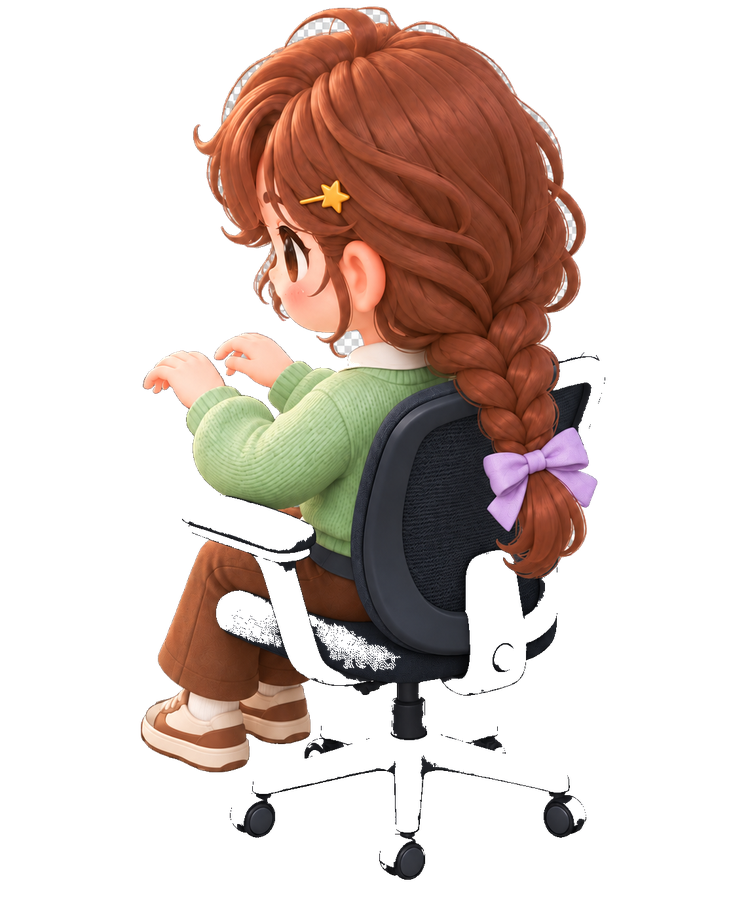
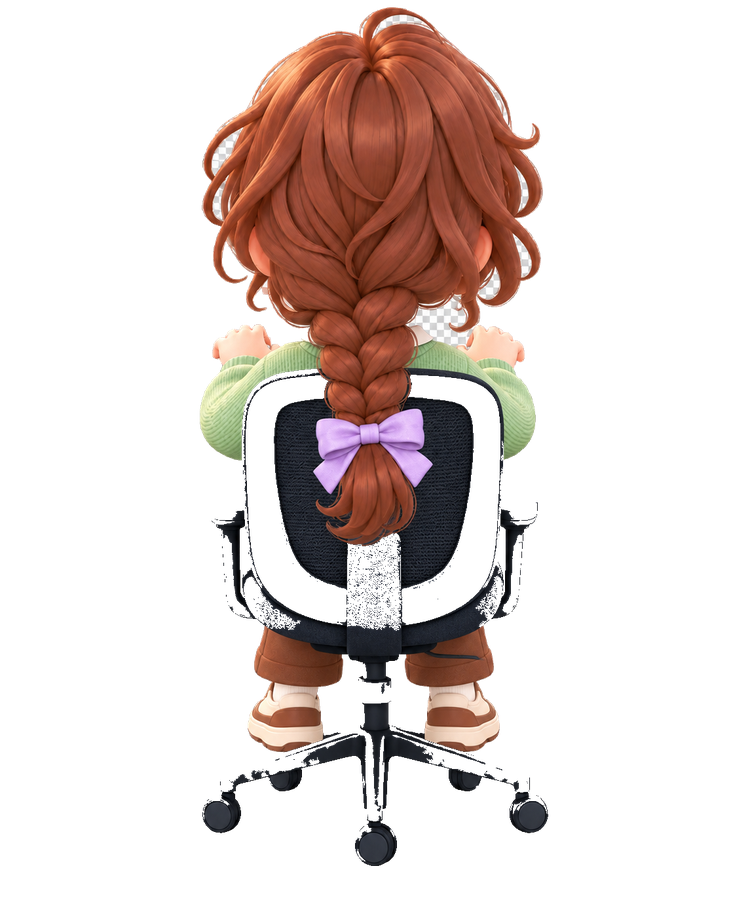
fix(console): 실앱에서 드러난 좌석 3건 — 각도·허공 착석·콘솔 겹침 (#627)
* fix(console): 콘솔이 그려 둔 의자 위에 의자째 앉히던 것 — 특화 콘솔은 정면 좌석 그림을 쓴다

#622 가 좌석 그림을 뒷모습 전신으로 바꾸면서 특화 콘솔도 그 그림을 받게 됐고, codex 리뷰를
따라 몸을 콘솔 앞판보다 앞으로 옮겼다. **둘이 겹쳐 더 나빠졌다** — 부서 특화 콘솔 그림은
자기 의자(초록 쿠션)를 이미 그려 두고 있어서, 의자까지 그려진 전신을 그 앞에 세우면 의자가
두 개로 보이고 사람이 작업면 위에 걸터앉은 그림이 된다(사용자 보고: "공공 에셋과 겹쳐서
이상하게 보임" — 실제 앱 화면).

앞으로 내는 것도 뒤로 넣는 것도 답이 아니다. 앞이면 작업면에 걸터앉고, 뒤면 전신의 다리가
앞판에 잘린다. **정면·상반신 원화(`sit`)를 쓰면 두 문제가 함께 사라진다** — 가려질 하반신이
애초에 없고, 콘솔이 그려 둔 의자가 그 사람의 의자로 읽힌다. codex 가 대안으로 제시한
"특화 콘솔 전용 포즈 분리"가 실제로 옳았다(그때 나는 원화를 한 벌 더 받아야 한다고 답했는데,
기존 `sit` 원화로 되는 일이었다).

- `officeFeatureConsoleSeatPose`(= `"sit"`)를 추가하고 특화 콘솔 배치가 그것을 넘긴다.
  일반 책상(`cozyDeskSeatPose`)과 갈라 두는 것이 이 상수의 존재 이유다.
- `CharacterNode.sit(pose:)` 로 좌석 종류를 받는다. `seatPose` 로 기억해 두어야 옷·부서가
  바뀌어 그림을 다시 구울 때도 같은 좌석 그림을 유지한다(`refreshLook`·`apply(department:)`).
  `stand()` 에서 기본값으로 되돌린다 — 안 그러면 콘솔에서 일어난 사람이 자기 책상에서도
  콘솔용 그림을 쓴다.
- 특화 콘솔 깊이를 `depth(of: tile) - 1.00` 으로 되돌렸다(앞판이 하반신을 가려 주는 구조).

검증: 테스트 20815건 통과, `--asset-check`·`--color-check`·`--prewarm-check` 종료 코드 0,
콘텐츠·총무 방을 2000×1250 · 14시로 굽고 before/after 대조.

미검증: 콘솔에 앉았다 일어나 자기 책상으로 돌아가는 전환은 렌더 정적 화면으로 볼 수 없어
`seatPose` 되돌림을 눈으로 확인하지 못했다.

* fix(console): 좌석 뒷모습이 책상과 다른 각도였던 것 — walk-up 과 같은 시점으로 다시 받는다

#622 로 들어간 뒷모습 원화는 인물을 거의 옆에서 본 각도였다. 배경 책상은 3/4 부감이라
두 각도가 어긋나 사람이 책상을 향해 앉은 것으로 보이지 않고 책상 옆면을 향해 앉은 것처럼
보였다(사용자 보고: "책상과 의자의 각도가 맞지 않음" — 실제 앱 화면).

**내 판단 착오였다.** 원화 단계에서 각도가 요청(20~30도)보다 크게 온 것을 알고도 1200×800
렌더에서 "자연스럽다" 고 판단해 수용했다. 큰 창에서는 그대로 드러난다 — 좌석 그림은 실사용
[…]

diff --git a/clients/idaeri-console/Sources/IdaeriConsole/CharacterNode.swift b/clients/idaeri-console/Sources/IdaeriConsole/CharacterNode.swift
@@ -25,6 +25,9 @@ final class CharacterNode: SKNode {
     private(set) var facing: Facing = .down
     /// 자리에 앉아 있는가. 앉은 그림과 선 그림을 가르는 유일한 값이다(`currentPose`).
     var isSeated = false
+    /// 지금 앉아 있는 자리가 어느 좌석 종류인지. `sit(pose:)` 가 정하고 `currentPose` 가 읽는다.
+    /// 옷·부서가 바뀌어 그림을 다시 구울 때도 같은 좌석 그림을 유지하려면 기억해 두어야 한다.
+    private var seatPose = cozyDeskSeatPose
     /// 걷는 중인가 — 새 지시가 오면 기존 걸음을 끊어야 해서 필요하다.
     var isWalking = false
     /// 몇 번째 걸음인가 — 몸이 좌우로 번갈아 기울도록 한 칸마다 늘린다.
@@ -405,7 +408,7 @@ final class CharacterNode: SKNode {
     /// 알아서 정지 그림으로 접고(`cozyPoseCandidates`), 그때는 몸 기울기만 남는다.
     private func currentPose() -> String {
         if isSeated {
-            return cozyDeskSeatPose
+            return seatPose
         }
         guard isWalking else {
             return cozyIdlePose
@@ -502,7 +505,7 @@ final class CharacterNode: SKNode {
             shirtShift = look.shirtShift
         }
         if isSeated {
-            setTexture(cozyDeskSeatPose)
+            setTexture(seatPose)
         } else {
             apply(facing: facing)
         }
@@ -521,9 +524,24 @@ final class CharacterNode: SKNode {
         cozyAppearance = cozyAgentAppearance(agentType: name ?? nameText, department: newDepartment)
         // 새 색으로 다시 굽는다. 걷는 중이면 다음 걸음 프레임이 자연히 새 색으로 그려진다.
         if isSeated {
-            setTexture(cozyDeskSeatPose)
+            setTexture(seatPose)
         } else {
             apply(facing: facing)
+        }
+    }
+
+    /// 이 자리에서 쓸 좌석 그림을 미리 정한다 — **자리에 놓는 쪽이 부른다.**
+    ///
+    /// `sit()` 이 인자로 받게 두면 앉히는 호출부마다 자리 종류를 다시 판정해야 하는데, 그
+    /// 호출부가 일곱 곳이고 그중 하나는 자리 종류로 분기까지 한다. 한 곳만 빠뜨려도 다음
+    /// 스냅샷에서 그림이 기본값으로 덮인다(codex 리뷰 지적: 첫 배치는 맞는데 이어지는 `sync`
+    /// 가 되돌려 콘솔 겹침이 재발). **배치 함수가 정하면 앉히는 쪽은 아무것도 몰라도 된다.**
+    func prepareSeat(pose: String) {
+        seatPose = pose
+        // 이미 앉아 있는 사람의 자리 종류가 바뀌었으면 그림도 즉시 따라가야 한다 — 콘솔에
+        // 앉아 있다가 자기 책상으로 재배치되는 경로가 그렇다.
+        if isSeated {
+            setTexture(seatPose)
         }
     }
 
@@ -533,7 +551,7 @@ final class CharacterNode: SKNode {
         // 숨는데, 그림자는 좌석 칸 바닥에 그대로 남아 책상 **아래**에 동그랗게 비친다 —
         // 사람은 책상 뒤에 있는데 그림자만 책상 앞 바닥에 떠 있는 그림이 된다(사용자 보고).
         contactShadow.isHidden = true
-        setTexture(cozyDeskSeatPose)
+        setTexture(seatPose)
     }
 
     func stand() {
@@ -543,6 +561,9 @@ final class CharacterNode: SKNode {
         }
         activeWorkPose = nil
         isSeated = false
+        // 다음에 앉을 자리는 그때 `prepareSeat(pose:)` 가 정한다. 여기서 되돌려 두지 않으면
+        // 콘솔에서 일어난 사람이 배치 함수를 안 거치는 경로로 다시 앉을 때 콘솔용 그림을 쓴다.
+        seatPose = cozyDeskSeatPose
         apply(facing: facing)
     }
 
@@ -596,7 +617,7 @@ final class CharacterNode: SKNode {
             ])
             tend.timingMode = .easeInEaseOut
             sprite.run(.repeatForever(tend), withKey: "interaction")
-        case .sitting, .drinking, .carryingPapers, .writing, .stowing:
+        case .sitting, .sittingAtTable, .drinking, .carryingPapers, .writing, .stowing:
             break
         }
     }
@@ -760,10 +781,13 @@ final class CharacterNode: SKNode {
         }
         clearMotion()
         if isSeated {
-            // 타이핑 그림이 없는 사람은 포즈 계약이 앉은 그림으로 내려준다 — 여기서 미리
-            // 존재를 따질 필요가 없다(따지던 시절에는 두 곳의 판정이 갈릴 여지가 있었다).
+            // **`"typing"` 을 요청하지 않는다.** 포즈 계약의 `typing` 후보는 선두가 책상 좌석
+            // 그림이라(자세가 이미 타이핑이다) 요청해도 결국 그것이 뽑히는데, 그 값은 일반
+            // 책상용이라 특화 콘솔에 앉은 사람의 그림을 덮는다(codex 리뷰 지적). 자리 종류를
+            // 아는 것은 `seatPose` 하나이므로 그것을 그대로 쓴다. `activeWorkPose` 는 몸짓
+            // 정리(`clearMotion`)가 자세 복원을 판단하는 표식으로 남긴다.
             activeWorkPose = "typing"
-            setTexture("typing")
+            setTexture(seatPose)
         }
         if shouldReduceMotion() {
             return

diff --git a/clients/idaeri-console/Sources/ConsoleCore/OfficeChoreography.swift b/clients/idaeri-console/Sources/ConsoleCore/OfficeChoreography.swift
@@ -96,6 +96,18 @@ public let cozyIdlePose = "idle"
 /// 셋 중 하나만 바꾸면 사람이 상판 위로 떠오르거나 다리가 중간에서 잘린다.
 public let cozyDeskSeatPose = "sit-back"
 
+/// 부서 특화 콘솔에서 쓰는 좌석 포즈 — **정면·상반신**(`sit`).
+///
+/// 뒷모습 원화를 쓰지 않는 이유는 **콘솔 그림이 자기 의자를 이미 그려 놓았기 때문**이다.
+/// 의자까지 그려진 전신을 그 위에 앉히면 의자가 두 개로 보이고, 콘솔 앞판보다 앞에 두면
+/// 사람이 작업면 위에 걸터앉은 그림이 된다(사용자 보고: "공공 에셋과 겹쳐서 이상하게
+/// 보임" — 실제 앱 화면으로 확인). 반대로 뒤에 두면 전신의 다리가 중간에서 잘린다.
+///
+/// 정면 원화는 허리 아래가 없어 두 문제가 함께 사라진다 — 콘솔 앞판이 가려 줄 하반신이
+/// 애초에 없고, 콘솔이 그려 둔 의자가 그 사람의 의자로 읽힌다. 일반 책상(`cozyDeskSeatPose`)
+/// 과 갈라 두는 것이 이 상수의 존재 이유다.
+public let officeFeatureConsoleSeatPose = "sit"
+
 /// 요청 이름을 에셋 어휘로 접는다.
 ///
 /// **방향 이름과 걸음 프레임이 전부 `idle` 로 접히는 것이 이 함수의 요점이다.** `down`·`up`·
@@ -118,6 +130,10 @@ public func normalizedCozyPose(_ requested: String) -> String {
         return "sit-back"
     case "sitting":
         return "sitting"
+    // 의자를 들고 오는 테이블 앞 착석. `OfficeInteractionPose.sittingAtTable` 의 rawValue 가
+    // 그대로 들어오므로 붙여 쓴 형태도 함께 받는다.
+    case "sit-table", "sittable", "sittingattable":
+        return "sit-table"
     case "typing":
         return "typing"
     case "reading":
@@ -173,6 +189,8 @@ public func cozyPosePosture(assetIndex: Int, pose: String) -> CozyPosePosture {
         return .seated
     case "sit-back":
         return .seated
+    case "sit-table":
+        return .seated
     case "typing":
         return assetIndex == 18 ? .standing : .seated
     case "sitting":
@@ -204,6 +222,10 @@ public func cozyPoseCandidates(_ normalized: String) -> [String] {
     // 소파에 놓으면 상반신만 뜨고, 이쪽을 책상에 놓으면 다리가 상판 아래로 샌다.
     case "sitting":
         return ["sitting"]
+    // 테이블용이 없으면 소파용으로 내려간다 — 자리는 맞고 의자만 사라져 공중에 앉은 것처럼
+    // 보이지만, 서 있는 기본 그림으로 떨어지는 것보다는 뜻이 가깝다.
+    case "sit-table":
+        return ["sit-table", "sitting"]
     // **앉은 그림을 먼저 본다.** `sit` 원화는 허리 아래가 없고 팔을 앞으로 뻗은 그림으로
     // 다시 그려졌다 — 책상 뒤에 놓으면 다리가 샐 자리가 없어 "책상을 관통한" 인상이
     // 사라진다(사용자 보고로 재제작). 그 자세가 이미 타이핑이라 `typing` 원화를 따로
@@ -265,7 +287,8 @@ public func resolveCozyPose(
     // `idle`(서 있는 전신)로 떨어진다 — 파일도 있고 계약에도 등록했는데 화면만 안 바뀌어
     // 원인이 늦게 드러난다(`sit-back` 을 넣을 때 실제로 그랬다).
     let wanted: CozyPosePosture = requiredPosture
-        ?? (["sit", "sit-back", "sitting", "typing"].contains(normalized) ? .seated : .standing)
+        ?? (["sit", "sit-back", "sit-table", "sitting", "typing"].contains(normalized)
+            ? .seated : .standing)
     for candidate in cozyPoseCandidates(normalized) {
         guard !cozyPoseDrawsOwnFurniture(assetIndex: assetIndex, pose: candidate) else {
             continue

diff --git a/clients/idaeri-console/Sources/ConsoleCoreTests/OfficeChoreographyTests.swift b/clients/idaeri-console/Sources/ConsoleCoreTests/OfficeChoreographyTests.swift
@@ -248,6 +248,48 @@ func runCozyPoseContractTests(_ t: TestRunner) {
         ).pose,
         cozyIdlePose, "가구 앞 앉기는 책상 뒷모습으로 대신하지 않는다")
 
+    // MARK: - 테이블 앞 착석(`sit-table`)
+
+    t.expectEqual(normalizedCozyPose("sit-table"), "sit-table", "테이블 착석은 별도 이름")
+    t.expectEqual(
+        resolveCozyPose(
+            requested: "sit-table", assetIndex: 3, hasAsset: cozyPoseAssetExists(3)
+        ),
+        ResolvedCozyPose(pose: "sit-table", posture: .seated),
+        "테이블 착석 요청은 앉은 자세의 전용 그림으로 풀린다")
+    // 전용 그림이 없으면 소파용으로 내려간다 — 의자가 사라져 공중에 앉은 것처럼 보이지만,
+    // 서 있는 기본 그림으로 떨어지는 것보다는 뜻이 가깝다.
+    t.expectEqual(
+        resolveCozyPose(
+            requested: "sit-table", assetIndex: 1, hasAsset: { $0 == "sitting" }
+        ),
+        ResolvedCozyPose(pose: "sitting", posture: .seated),
+        "테이블 그림이 없으면 소파용으로 대신한다")
+
+    // **씬이 쓰는 모든 상호작용 자세가 계약에 등록돼 있는지 — 전수.**
+    //
+    // 이것이 이 블록에서 가장 중요한 단언이다. 자세 이름은 `OfficeInteractionPose` 가 정하고
+    // (`rawValue` 가 그대로 요청으로 들어간다) 계약은 `normalizedCozyPose` 가 정하는데, 둘이
+    // 따로 적혀 있어 **새 자세를 한쪽에만 넣으면 요청이 조용히 `idle` 로 접힌다.** 파일도 있고
+    // 가구 매핑도 맞는데 화면만 안 바뀌어 원인이 늦게 드러난다(`sit-back`·`sit-table` 을 넣을 때
+    // 실제로 그랬다). 케이스를 하나 추가하면 여기서 바로 걸린다.
+    for pose in OfficeInteractionPose.allCases {
+        t.expect(
+            normalizedCozyPose(pose.rawValue) != cozyIdlePose,
+            "상호작용 자세 \(pose.rawValue) 가 계약에 등록돼 있어야 한다")
+    }
+    // 앉는 자세는 **앉은 것으로** 풀려야 한다. `resolveCozyPose` 안의 앉은-요청 목록에서
+    // 빠지면 원하는 자세가 `.standing` 으로 잡혀 앉은 후보가 전부 걸러진다.
+    for pose in OfficeInteractionPose.allCases
+    where normalizedCozyPose(pose.rawValue).hasPrefix("sit") {
+        t.expectEqual(
+            resolveCozyPose(
+                requested: pose.rawValue, assetIndex: 3, hasAsset: cozyPoseAssetExists(3)
+            ).posture,
+            .seated,
+            "앉는 자세 \(pose.rawValue) 는 앉은 그림으로 풀린다")
+    }
+
     // 앉은 요청은 **앉은 그림**으로만 내려간다. 서 있는 그림으로 내려가면 그 사람만 책상 위에
     // 올라선 것처럼 보인다. 10번은 `typing` 이 없는 캐릭터다.
     t.expectEqual(

diff --git a/clients/idaeri-console/Sources/IdaeriConsole/OfficeScene.swift b/clients/idaeri-console/Sources/IdaeriConsole/OfficeScene.swift
@@ -1496,6 +1496,10 @@ final class OfficeScene: SKScene {
     private func place(_ node: CharacterNode, at tile: TilePoint) {
         node.tile = tile
         node.place(at: floorPoint(tile), depth: depth(of: tile))
+        // 특화 콘솔·책상이 아닌 **임의 칸**이다. 이 자리에서 앉게 되면(호출부가 이어서
+        // `sit()` 을 부르는 경로가 있다) 일반 책상 그림이 기본이 된다 — 콘솔에서 옮겨온
+        // 사람이 콘솔용 그림을 들고 오지 않도록 여기서도 명시한다.
+        node.prepareSeat(pose: cozyDeskSeatPose)
         applyDepthScale(node, at: tile)
         refreshDoors()
     }
@@ -1539,6 +1543,7 @@ final class OfficeScene: SKScene {
             // 주면 몸(+1)이 앞판보다 앞에 서서 모니터와 상판을 가리고 전신이 온전히 보인다.
             depth: depth(of: assignment.desk)
         )
+        node.prepareSeat(pose: cozyDeskSeatPose)
         // 책상 칸 기준으로 크기를 맞춘다 — 사람이 그 책상에 붙어 앉으므로 좌석 칸이 아니라
         // 책상 칸의 깊이가 눈에 보이는 크기를 정한다.
         applyDepthScale(node, at: assignment.desk)
@@ -1592,8 +1597,12 @@ final class OfficeScene: SKScene {
             // 대신 사람이 콘솔의 부서 그림을 더 가린다. 일반 책상에서 모니터를 가리는 쪽을
             // 고른 것과 같은 판단이다(사용자: "모니터를 가려도 좋으니 정확하게 앉은 자세로").
             // 두 좌석 경로가 서로 반대 전제로 갈리면 다음에 고칠 사람이 한쪽만 보고 틀린다.
-            depth: depth(of: tile)
+            depth: depth(of: tile) - 1.00
         )
+        // **자리와 좌석 그림을 같은 곳에서 정한다.** 앉히는 호출부(`node.sit()`)는 일곱 곳이고
+        // 그중 하나는 자리 종류로 분기까지 하므로, 그쪽에 판정을 맡기면 한 곳만 빠뜨려도 다음
+        // 스냅샷이 기본 그림으로 덮는다(codex 리뷰 지적).
+        node.prepareSeat(pose: officeFeatureConsoleSeatPose)
         applyDepthScale(node, at: tile)
         refreshDoors()
     }

diff --git a/clients/idaeri-console/Sources/ConsoleCore/OfficeFloorPlan.swift b/clients/idaeri-console/Sources/ConsoleCore/OfficeFloorPlan.swift
@@ -917,8 +917,15 @@ public enum FurnitureKind: String, Codable, Sendable, CaseIterable {
     /// 머무름이 있는 가구만 자세를 가진다. 두 switch를 나란히 둬 새 종류 추가 시 함께 검토한다.
     public var interactionPose: OfficeInteractionPose? {
         switch self {
-        case .sofa2, .sofa3, .coffeeTable, .meetingTable:
+        // **앉을 면이 그려져 있는 가구와 상판만 있는 가구를 가른다.** 소파는 그림에 좌판이
+        // 있어 의자 없는 착석 그림(`sitting`)이 그대로 성립한다. 회의 테이블·응접 테이블은
+        // 상판만 있어(회의 테이블은 의자 여덟 개를 일부러 지운 재제작본이다) 같은 그림을 놓으면
+        // 앉을 것이 없는 자리에 앉은 사람이 되어 허공에 뜬다(사용자 보고: "공중에 앉아있음.
+        // 기구 시설을 정확하게 이용하지 못함"). 그쪽은 의자를 함께 들고 오는 그림을 쓴다.
+        case .sofa2, .sofa3:
             return .sitting
+        case .coffeeTable, .meetingTable:
+            return .sittingAtTable
         case .coffeeMachine, .waterCooler, .vendingMachine, .refrigerator, .sinkCounter:
             return .drinking
         case .printer, .filingCabinet:

diff --git a/clients/idaeri-console/Sources/ConsoleCore/OfficeIdle.swift b/clients/idaeri-console/Sources/ConsoleCore/OfficeIdle.swift
@@ -19,6 +19,13 @@ public let officeLunchHour: Int = 12
 /// 가구 앞에서 취하는 자세. 서기·앉기 그림만 있는 한계를 소품과 몸짓으로 보완한다.
 public enum OfficeInteractionPose: String, Sendable, CaseIterable {
     case sitting
+    /// 의자가 그려져 있지 않은 테이블 앞에 앉기 — **그림이 자기 의자를 들고 온다.**
+    ///
+    /// `sitting` 과 갈라 두는 이유는 가구가 앉을 면을 주는지가 정반대이기 때문이다. 소파는
+    /// 앉을 면이 그려져 있어 의자 없는 그림(`sitting`)이 맞지만, 회의 테이블·응접 테이블은
+    /// 상판만 있어(`meetingTable` 은 의자 여덟 개를 일부러 지운 재제작본이다) 같은 그림을
+    /// 놓으면 사람이 허공에 앉는다(사용자 보고: "공중에 앉아있음").
+    case sittingAtTable
     case drinking
     case carryingPapers
     case writing
@@ -35,7 +42,7 @@ public enum OfficeInteractionPose: String, Sendable, CaseIterable {
             return "prop-papers"
         case .reading, .stowing:
             return "prop-book-stack"
-        case .sitting, .tending:
+        case .sitting, .sittingAtTable, .tending:
             return nil
         }
     }

diff --git a/clients/idaeri-console/Sources/ConsoleCoreTests/OfficeIdleTests.swift b/clients/idaeri-console/Sources/ConsoleCoreTests/OfficeIdleTests.swift
@@ -185,8 +185,8 @@ func runOfficeIdleTests(_ t: TestRunner) {
     let expectedFurniturePoses: [FurnitureKind: OfficeInteractionPose] = [
         .sofa2: .sitting,
         .sofa3: .sitting,
-        .coffeeTable: .sitting,
-        .meetingTable: .sitting,
+        .coffeeTable: .sittingAtTable,
+        .meetingTable: .sittingAtTable,
         .coffeeMachine: .drinking,
         .waterCooler: .drinking,
         .vendingMachine: .drinking,
@@ -204,6 +204,9 @@ func runOfficeIdleTests(_ t: TestRunner) {
         .plantSmall: .tending,
         .lockers2: .stowing,
     ]
+    // 소파는 그림에 좌판이 있어 의자 없는 착석(`sitting`), 회의·응접 테이블은 상판만 있어
+    // 의자를 함께 들고 오는 착석(`sittingAtTable`)이다. 둘을 같은 값으로 되돌리면 상판뿐인
+    // 테이블 앞에서 사람이 허공에 앉는다(사용자 보고로 갈랐다).
     for (kind, pose) in expectedFurniturePoses {
         t.expectEqual(kind.interactionPose, pose, "\(kind.rawValue) 자세 매핑")
     }

diff --git a/clients/idaeri-console/Sources/IdaeriConsole/CozyAssetCheck.swift b/clients/idaeri-console/Sources/IdaeriConsole/CozyAssetCheck.swift
@@ -75,7 +75,11 @@ func runCozyAssetCheck() -> Bool {
     // 정면 착석으로 내려가 혼자 화면 밖을 본다.
     let requiredPoseAssets = (0..<cozyCharacterAssetCount).map { "agent-\($0)-sit" }
         + (0..<cozyCharacterAssetCount).map { "agent-\($0)-sit-back" }
-        + (0..<cozyCharacterAssetCount).map { "agent-\($0)-sitting" } + [
+        + (0..<cozyCharacterAssetCount).map { "agent-\($0)-sitting" }
+        // 테이블 앞 착석(`sit-table`)도 전원이 가진다. 소파용(`sitting`)과 가구가 앉을 면을
+        // 주는지가 정반대라 서로 대신할 수 없다 — 빠지면 그 사람만 상판뿐인 테이블 앞에서
+        // 허공에 앉는다.
+        + (0..<cozyCharacterAssetCount).map { "agent-\($0)-sit-table" } + [
         "agent-0-writing", "agent-0-typing", "agent-0-reading", "agent-0-drinking",
         "agent-1-writing", "agent-1-typing", "agent-1-reading", "agent-1-drinking",
         "agent-2-typing", "agent-3-typing", "agent-4-typing", "agent-5-typing",
